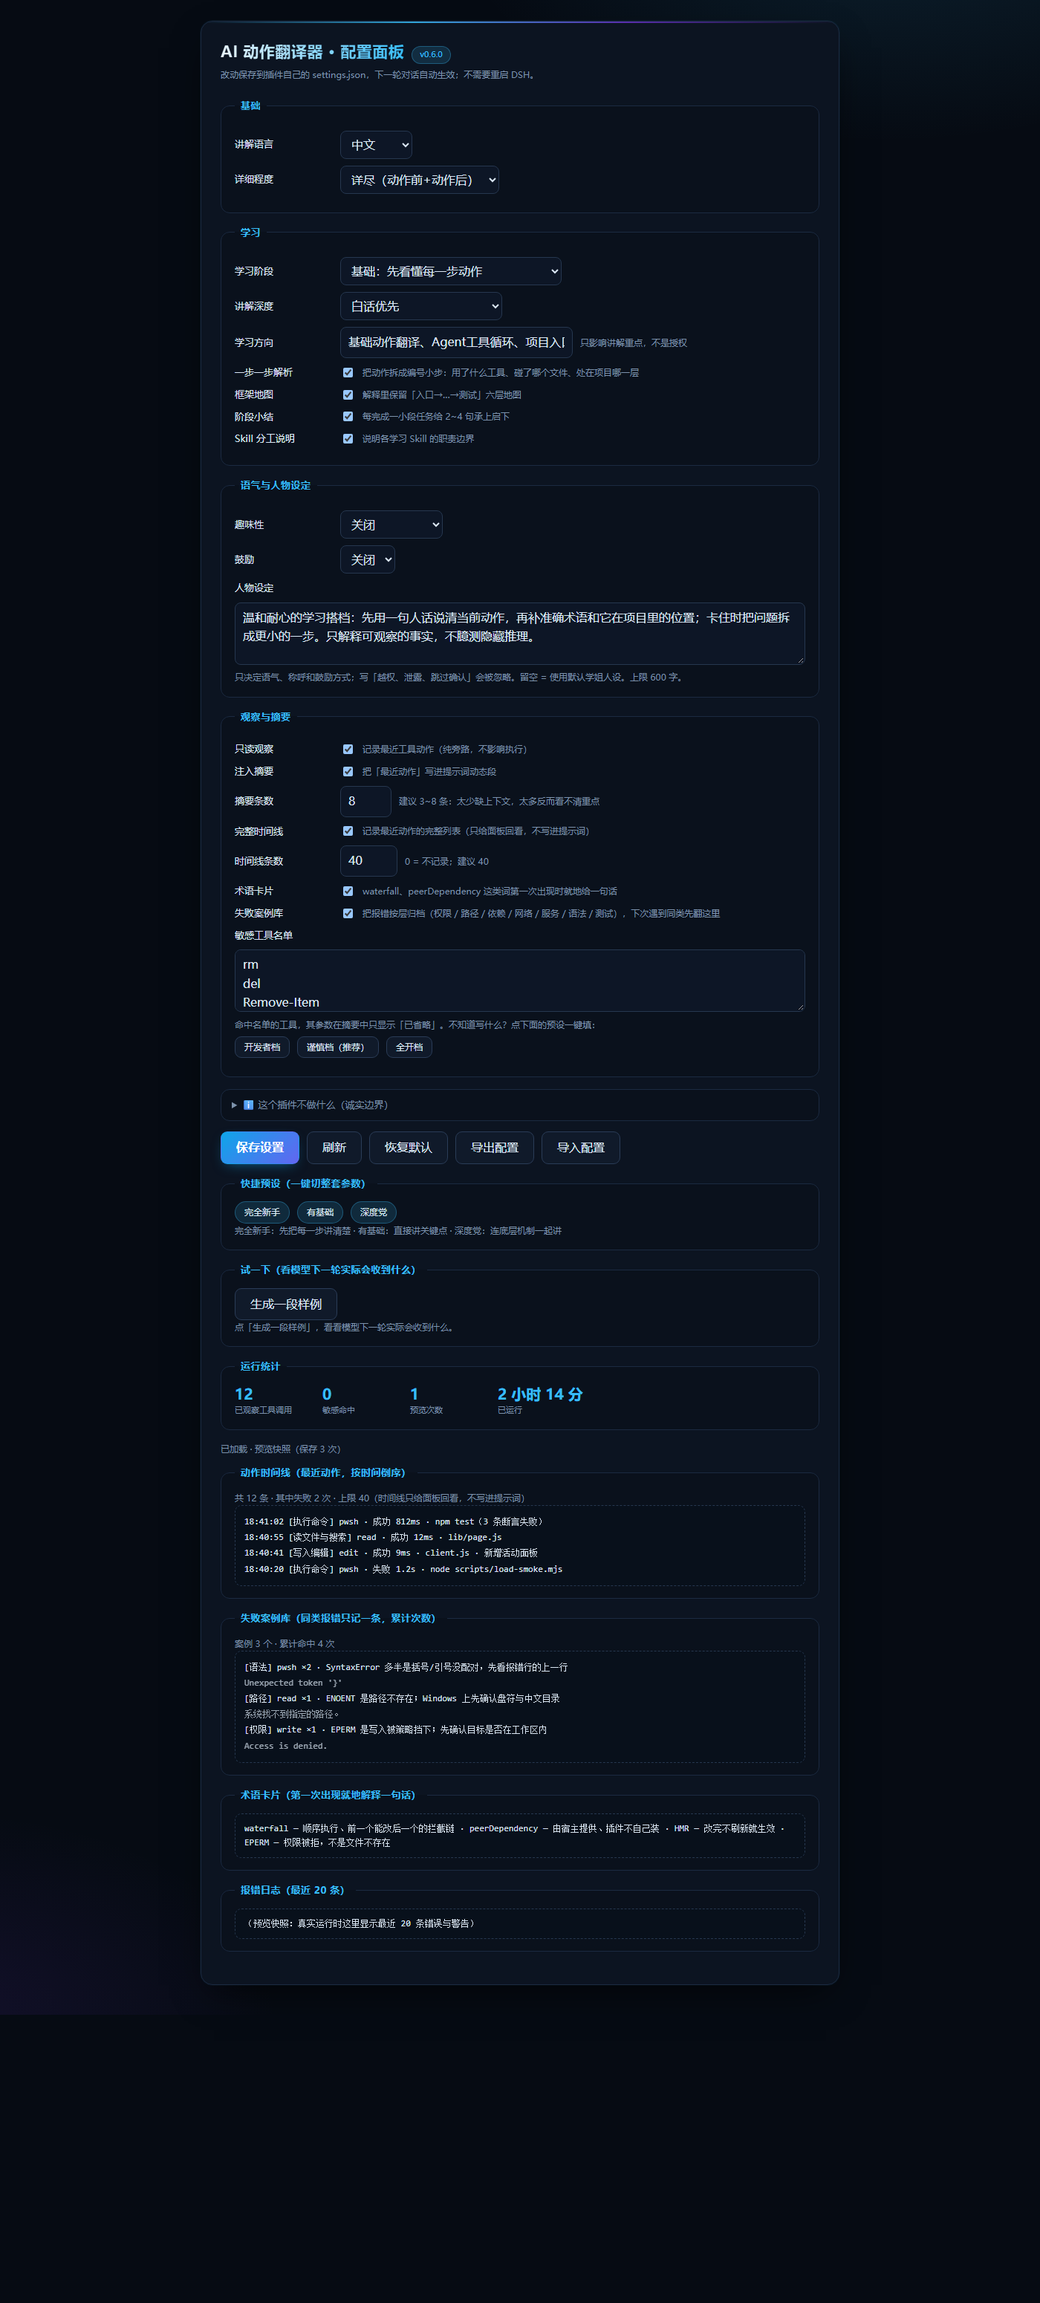
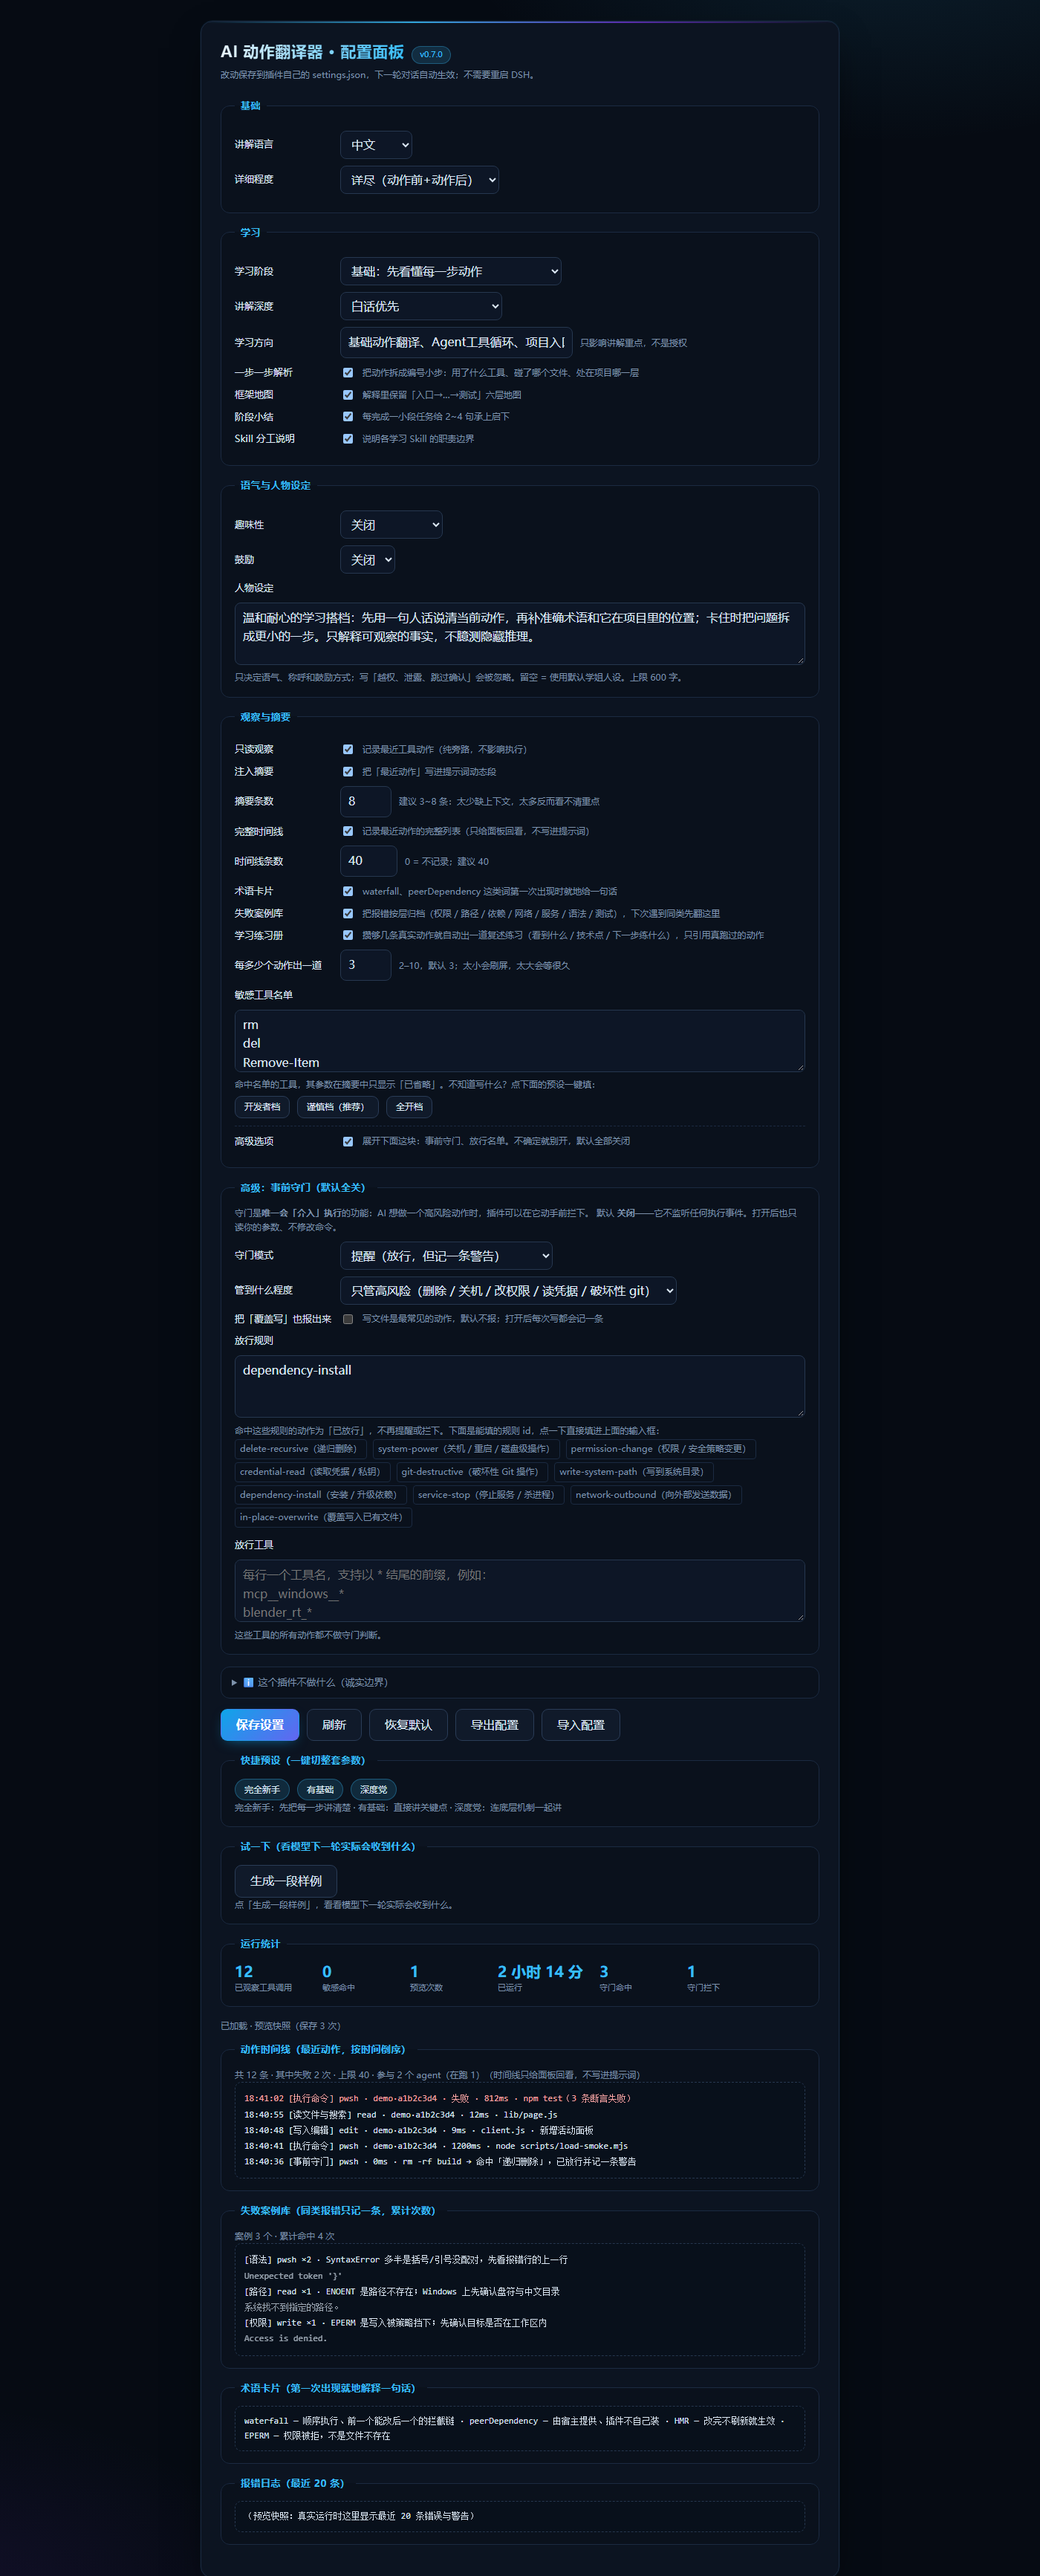
docs: refresh the 0.7.0 screenshot, test counts, and self-check notes

diff --git a/README.md b/README.md
@@ -4,7 +4,7 @@
 
 ![AI 动作翻译器配置面板](docs/screenshot.png)
 
-<sub>配置面板实拍：学习区第一行就是「一步一步解析」。图为本地离线预览快照（不联网，数据为演示值）。</sub>
+<sub>配置面板实拍。学习区第一行是「一步一步解析」；「观察与摘要」里多了「学习练习册」；展开「高级选项」能看到事前守门——图里把它开成了「提醒」，所以运行统计多出「守门命中 3 / 守门拦下 1」两张卡，下面的规则清单点一下就能把规则 id 填进放行名单。图为本地离线预览快照（不联网，数据为演示值）。</sub>
 
 **English summary** — This DeepSeek Harness (DSH) plugin injects a fixed instruction section into the agent's system prompt. From then on, the agent explains its own observable actions — tool calls, shell commands, file reads and writes, dependency installs, service starts, and error handling — in beginner-friendly language, before and after each action. It also marks, at every verifiable step, that you can still interrupt and change course, and states what changing your mind would cost at that moment. A small GUI panel personalises how much explanation you get. It registers **no tools**, intercepts **nothing**, makes **no network calls**, reads and writes **none of your project files**, and never executes actions on its own. All of its tests run offline with `npm test`.
 
@@ -212,25 +212,28 @@ Rename-Item ~\.dsh\plugins\dsh-ai-action-translator.bak-<时间戳> ~\.dsh\plugi
 
 ```bash
 npm ci     # 首次需要，按 lock 精确安装开发依赖
-npm run verify  # 语法检查 + 132 项测试 + 隐私扫描
+npm run verify  # 语法检查 + 134 项测试 + 隐私扫描
 node scripts/load-smoke.mjs   # 假宿主装载冒烟（可选，单独跑）
 ```
 
 单独跑：
 
 ```bash
-npm run check           # 9 个源文件语法检查
-npm test                # 84 项测试
+npm run check           # 13 个源文件语法检查
+npm test                # 134 项测试
 npm run check:privacy   # 扫描是否误提交本机路径/密钥
 node scripts/load-smoke.mjs   # 假宿主装载冒烟：注册段 / 订阅工具事件 / 面板应答 / 卸载清理
 ```
 
-四组测试的分工：
+七组测试的分工：
 
 - `test/plugin.test.mjs` —— 插件契约：`apply()` 注册了哪些段、默认值、`enabled: false` 时不注册
-- `test/modules.test.mjs` —— 服务端模块：store 原子写入与损坏隔离、回环围栏、路由与 400、日志环，以及文档回归（README/SKILL/page 不得教用户手敲那个必然 401 的网址）
+- `test/modules.test.mjs` —— 服务端模块：store 原子写入与损坏隔离、回环围栏、路由与 400、日志环，文档回归（README/SKILL/page 不得教用户手敲那个必然 401 的网址），以及「`activity()` 的每个字段都必须穿过 `/activity` 的响应白名单」——这条是因为 0.7.0 真的漏过一次：数据层加了、出口层没加，测试全绿而面板永远拿到 `undefined`
 - `test/client.test.mjs` —— 浏览器半身：用 `node:vm` 造假浏览器加载 `client.js`，断言字段清单与后端完全一致、`toPayload` 只发白名单字段、坏输入本地挡住、缺宿主服务时只警告不崩
 - `test/activity.test.mjs` —— 动作回看：分类器（11 类，含 exec 的依赖安装 / 服务控制 / 版本控制细分）、失败分层（8 层 + 未知兜底）、时间线只留最新、失败案例库按签名累计、术语表、`/activity` 路由，以及「时间线不得进提示词」的反向守卫
+- `test/guard.test.mjs` —— 事前守门：递归删除 / 关机 / 改权限 / 读凭据 / 破坏性 git 必须命中；装依赖 / 停服务 / 联网 / 覆盖写按 `guardLevel` 分流；`warn` 绝不返回 deny；写系统目录只对写类工具报；带 `quiet` 的规则默认静音、`includeQuiet` 才出声；参数被 JSON 转义过（`C:\\Windows`）时也要认得出
+- `test/agents.test.mjs` —— 多 Agent 名册：身份归一化（`agent.id` 缺失时回落 session header）、字段白名单、`born` / `gone` / `touch` 计数、超上限丢最早、`list()` 返回副本（调用方改不坏内部状态）
+- `test/drill.test.mjs` —— 学习练习册：`drillEvery` 收敛（`null` / `undefined` / 空串算「没给」，不是「给了 0」）、攒够就出卡且同一批只出一张（幂等）、窗口裁剪时已出卡计数跟着回落、卡里只引用真发生过的动作
 
 ## 项目结构
 

diff --git a/CHANGELOG.md b/CHANGELOG.md
@@ -25,6 +25,20 @@
 - **`drillEveryOf(null)` 返回 2 而不是传入的 fallback**：`Number(null) === 0`。null / undefined / 空串现在视为「没给」，回落 fallback。
 - **`validate` 对缺省 `drillEvery` 误报**：老表单没有这个控件时算出 `NaN`，多报一条 problem；现在缺省回落 3（与 `toForm` / `toPayload` 一致，且 `toPayload` 不回落 0——0 会被后端收敛成下限 2）。
 
+### 发布前自检又修掉 9 处
+
+整个 0.7.0 改动做完后，又从 UI 往下逐层重审了一遍（面板控件 → 浏览器半身 → 服务端路由 → 数据层 → 测试夹具），修掉下面这些。它们都属于「测试全绿但用户会看见坏结果」的类型，所以单独记一笔：
+
+- **三个多行文本域从不按行拆分**（`lib/page.js`）：`.split(/\\r?\\n/)` 写成了双反斜杠，正则里那是「字面反斜杠 + r」，匹配不到真实换行；回填时的 `.join('\\n')` 同理。后果是「敏感工具」「规则放行」「工具放行」三个名单每行都不会成为独立条目，回填也不换行。这是 0.5.0 就带进来的老问题——测试只查控件是否存在，抓不到值的行为。
+- **守门监听器按启动期配置决定注册**（`lib/index.js`）：默认 `off` 时根本不注册 `tools/pre-execute`，用户在面板里改成 `warn` / `deny` 后界面显示「已开」却一次都不拦。**「看起来保护了你」比不保护更危险**，改成无条件注册、`off` 在第一行就放行。
+- **侧栏「其中失败」永远显示 0**（`client.js`）：读的是 `summary.failed`，后端字段叫 `errors`。
+- **面板「上限」永远显示 0**（`lib/timeline.js`）：`summary()` 只返回 `total` / `errors` / `byClass`，没有 `limit`。
+- **`/activity` 又漏了一个字段**（`lib/server.js`）：白名单补了 `guardRules` / `agents` / `agentSummary` / `drill` / `assemble`，却漏了自己的 `guard`（模式 / 等级 / 放行名单）。
+- **练习册永远显示「关着」**（`lib/index.js`）：`drill: drill.summary()` 少了 `on`——关着时 `size` 天然是 0，光看计数分不出「还没动作」和「根本没开」。
+- **侧栏调 `fill()` 会 ReferenceError**（`client.js`）：`fill` 原本是 `SettingsSection` 内部的局部 `const`，而 `ActivityPanel` 定义在它之前。提到模块级，一处实现两处用。
+- **`lib/index.js` 两行常量顶格**：纯风格，但和全文件缩进不一致，顺手对齐。
+- **三个测试夹具写了真实本机路径**：`test/agents.test.mjs` 与 `test/guard.test.mjs` 里用了本机用户目录做样例，触发隐私扫描。换成中性的假路径（`.ssh` 字样保留，断言语义不变）。
+
 ### 变更
 
 - 运行时字段 **20 → 28**（`guardMode` / `guardLevel` / `guardAllow` / `guardAllowTools` / `guardQuiet` / `advancedMode` / `drill` / `drillEvery`）。
@@ -33,7 +47,7 @@
 
 ### 工程
 
-- 测试 **84 → 132 项**，七组：插件契约 18 / 模块 30 / 浏览器半身 13 / 动作回看 23 / 守门 21 / 名册 14 / 练习册 13。
+- 测试 **84 → 134 项**，七组：插件契约 18 / 模块 31 / 浏览器半身 14 / 动作回看 23 / 守门 21 / 名册 14 / 练习册 13。
 - `npm run check` 覆盖 **9 → 13 个源文件**（新增 `guard.js` / `agents.js` / `drill.js` / `assemble.js`）。
 - 装载冒烟扩到真的走一遍：订阅三个新事件、喂一个带 agent 的工具结果、调练习册 context 两次验幂等、调装配 context、用删除命令验 `warn` 放行、再重取 `/activity` 验 `live` 归零。
 

diff --git a/docs/DETAIL.en.md b/docs/DETAIL.en.md
@@ -94,4 +94,4 @@ npm ci
 npm run verify   # syntax check + tests + privacy scan
 ```
 
-Seven test groups (132 tests total): plugin contract, server modules and documentation regressions, the browser half, the activity layer (classifier, failure layers, timeline, failure book, glossary, `/activity` route), the pre-flight guard (10 rules, three modes, allow channels, quiet exception), the agent roster, and the learning drills. There is also a fake-host load smoke test (`node scripts/load-smoke.mjs`) that runs `apply()` end to end — it exercises the guard allow path, roster registration, drill card emission, and both prompt contexts. It proves the wiring, not that the plugin is installed into a real DSH.
+Seven test groups (134 tests total): plugin contract, server modules and documentation regressions, the browser half, the activity layer (classifier, failure layers, timeline, failure book, glossary, `/activity` route), the pre-flight guard (10 rules, three modes, allow channels, quiet exception), the agent roster, and the learning drills. There is also a fake-host load smoke test (`node scripts/load-smoke.mjs`) that runs `apply()` end to end — it exercises the guard allow path, roster registration, drill card emission, and both prompt contexts. It proves the wiring, not that the plugin is installed into a real DSH.

diff --git a/docs/DETAIL.md b/docs/DETAIL.md
@@ -83,4 +83,4 @@ npm run verify    # 语法 + 测试 + 隐私扫描
 node scripts/load-smoke.mjs   # 假宿主装载冒烟（可选，单独跑）
 ```
 
-七组测试共 132 项：插件契约 / 服务端模块与文档回归 / 浏览器半身 / 动作回看层（分类器、失败分层、时间线、失败案例库、术语表、`/activity` 路由）/ 事前守门（10 条规则、三种模式、放行通道、静音例外）/ 多 Agent 名册 / 学习练习册。装载冒烟用假宿主把 `apply()` 完整跑一遍——它会真的走一遍守门放行、名册登记、练习册出卡与两端提示词段，**但不等于**已经装进真实 DSH（那需要重启桌面版）。
+七组测试共 134 项：插件契约 / 服务端模块与文档回归 / 浏览器半身 / 动作回看层（分类器、失败分层、时间线、失败案例库、术语表、`/activity` 路由）/ 事前守门（10 条规则、三种模式、放行通道、静音例外）/ 多 Agent 名册 / 学习练习册。装载冒烟用假宿主把 `apply()` 完整跑一遍——它会真的走一遍守门放行、名册登记、练习册出卡与两端提示词段，**但不等于**已经装进真实 DSH（那需要重启桌面版）。
